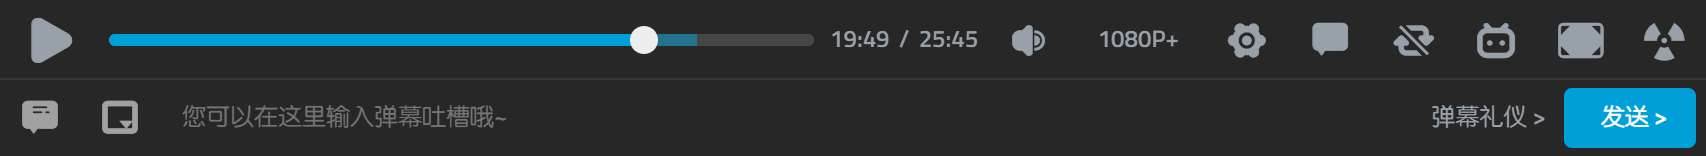
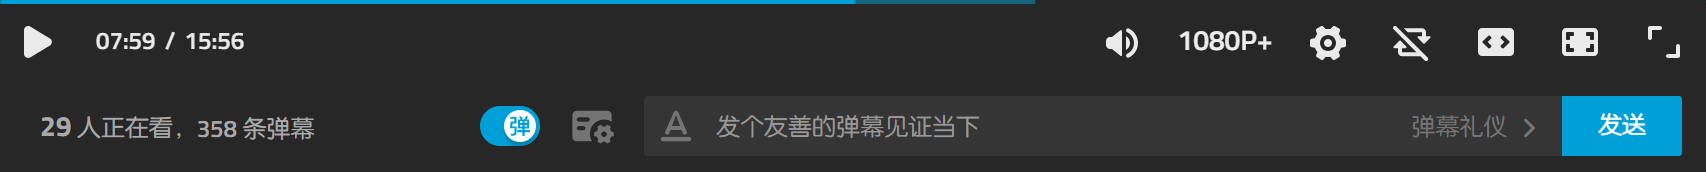
Update README and images

diff --git a/README.md b/README.md
@@ -76,8 +76,10 @@
 已知问题: 滑动调整的音量不会保存,下次打开视频将恢复原音量.
 #### 外置网页全屏
 因为触屏设备很难做出"鼠标悬停",`网页全屏`将从`全屏`的鼠标悬停菜单中移动到外部.
+
+(只对旧版播放器生效,新版播放器已经默认外置)
 #### 放大按钮
-放大控制栏的按钮及间距,使触摸操作更准确.
+增大控制栏的按钮间距,使触摸操作更准确.
 ##### 启用前
 ![放大前](images/player-buttons-original.png)
 ##### 启用后
